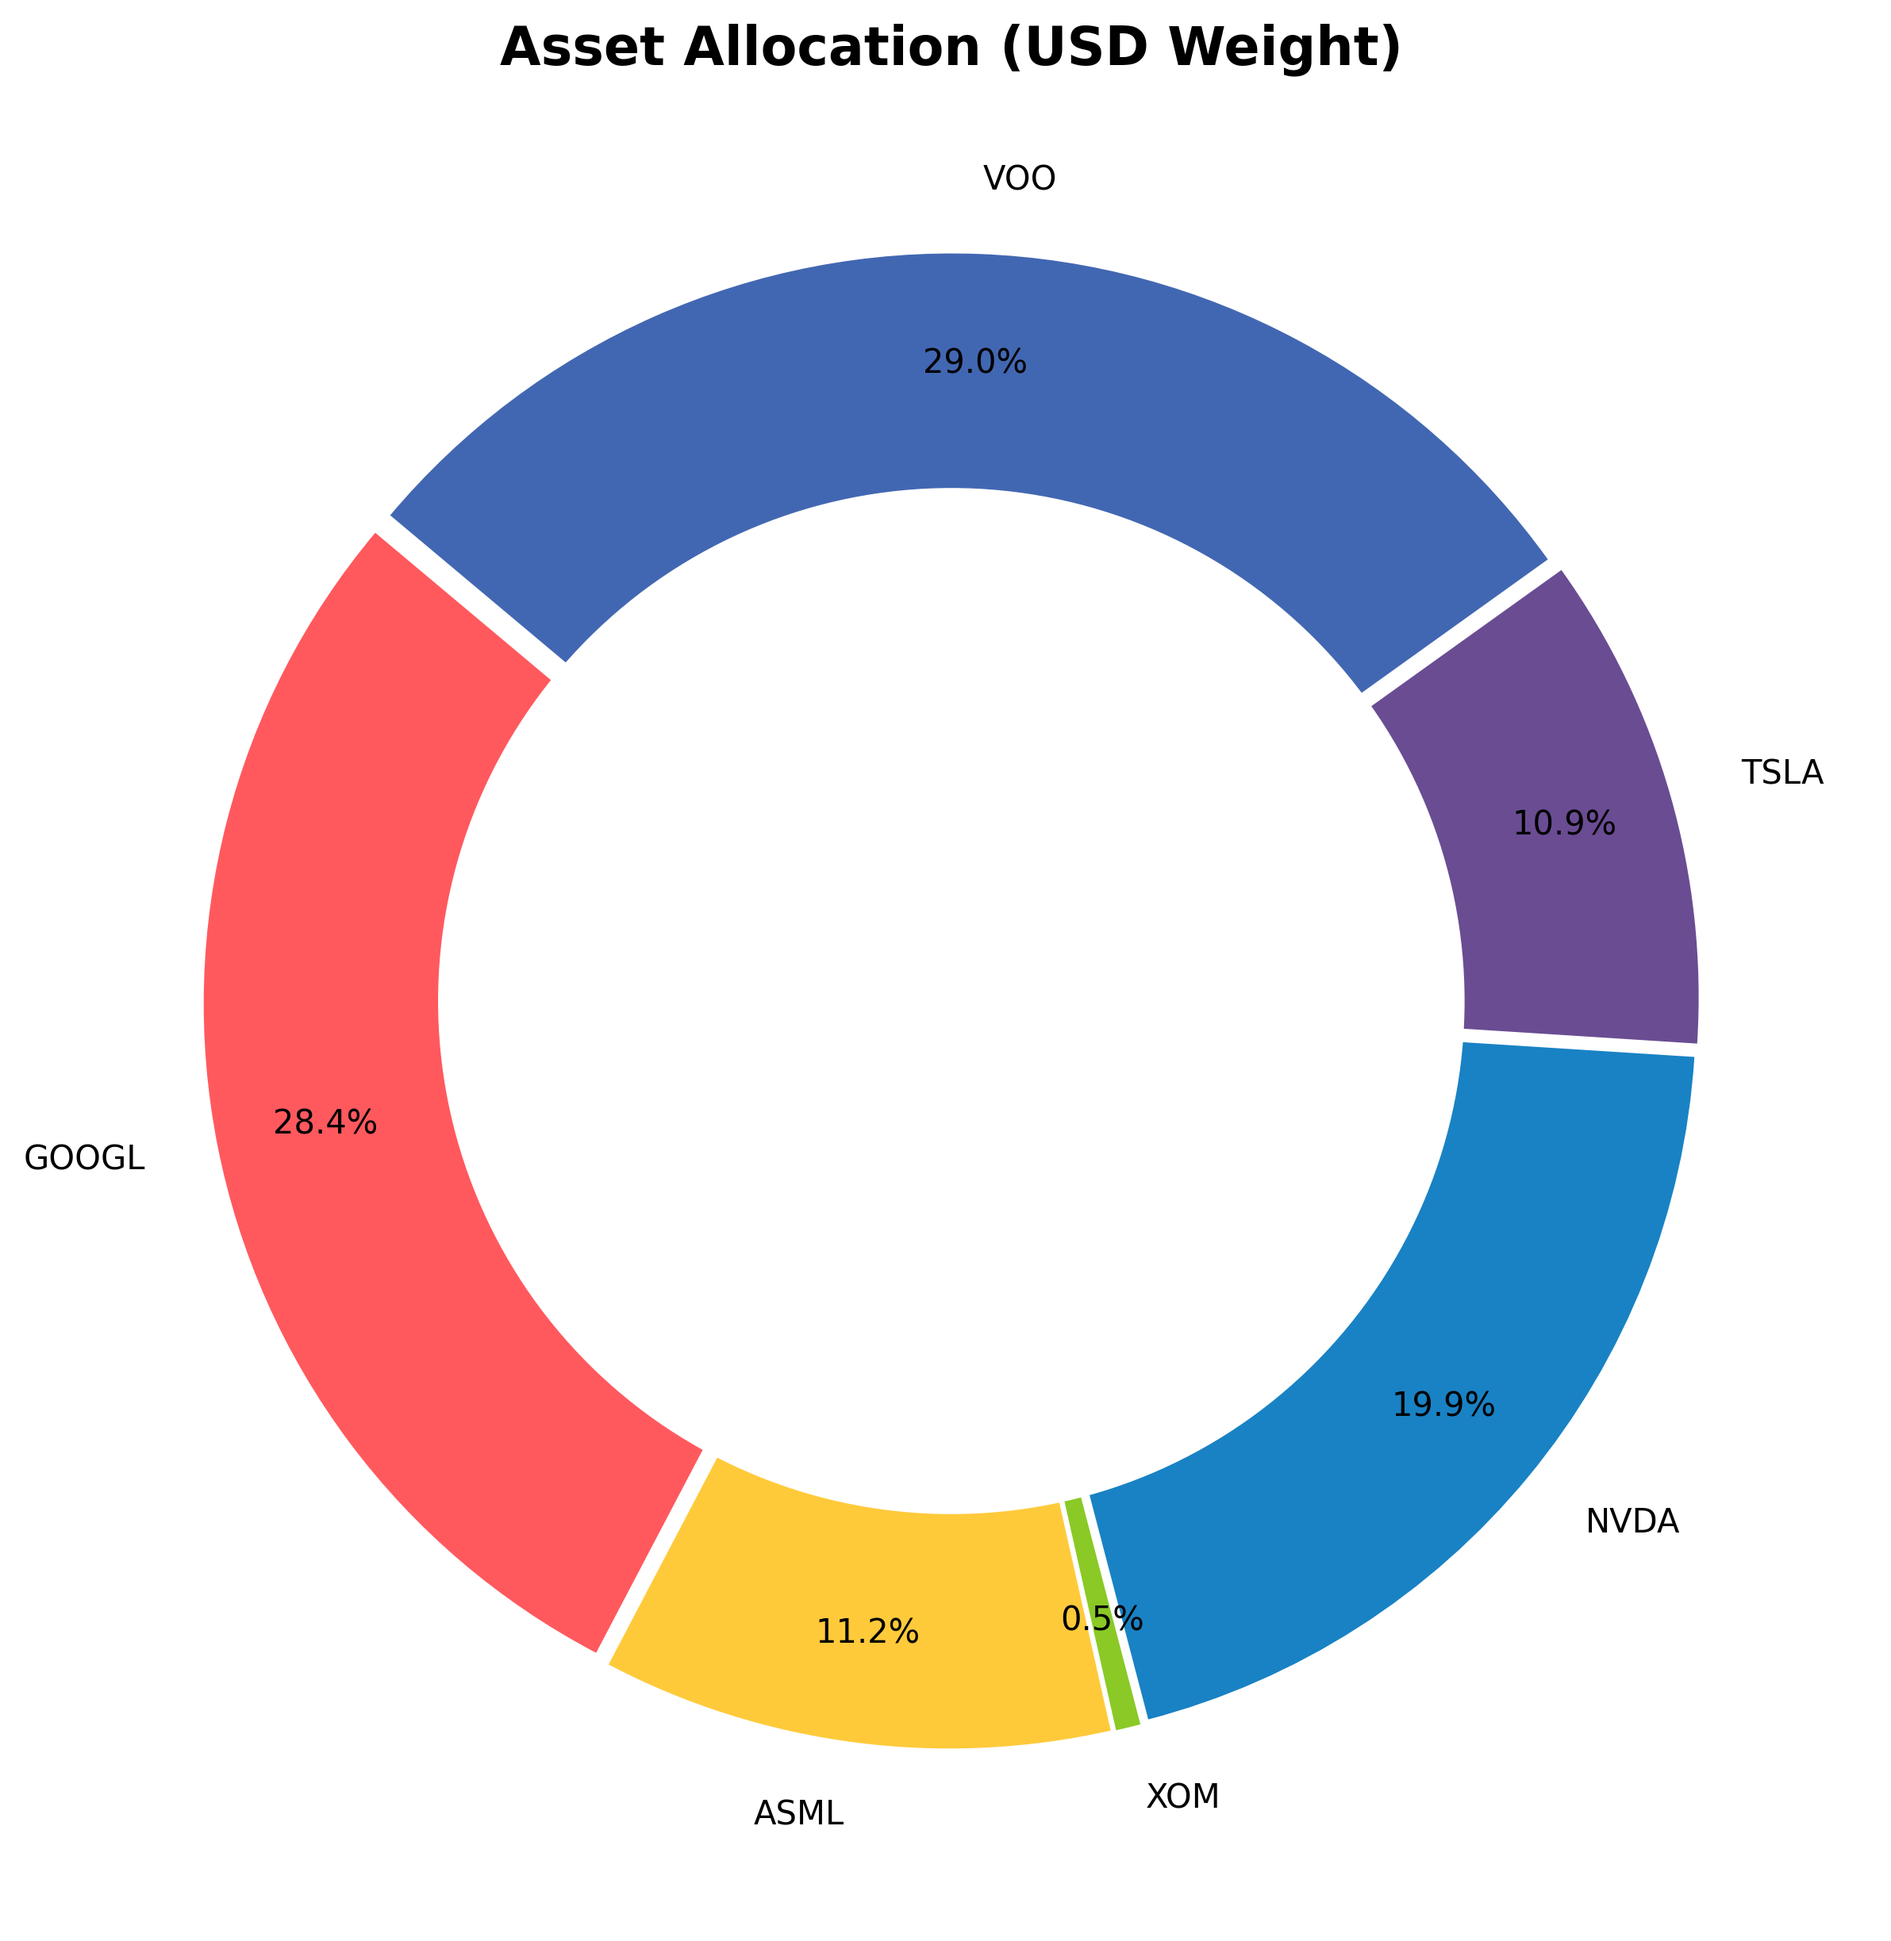
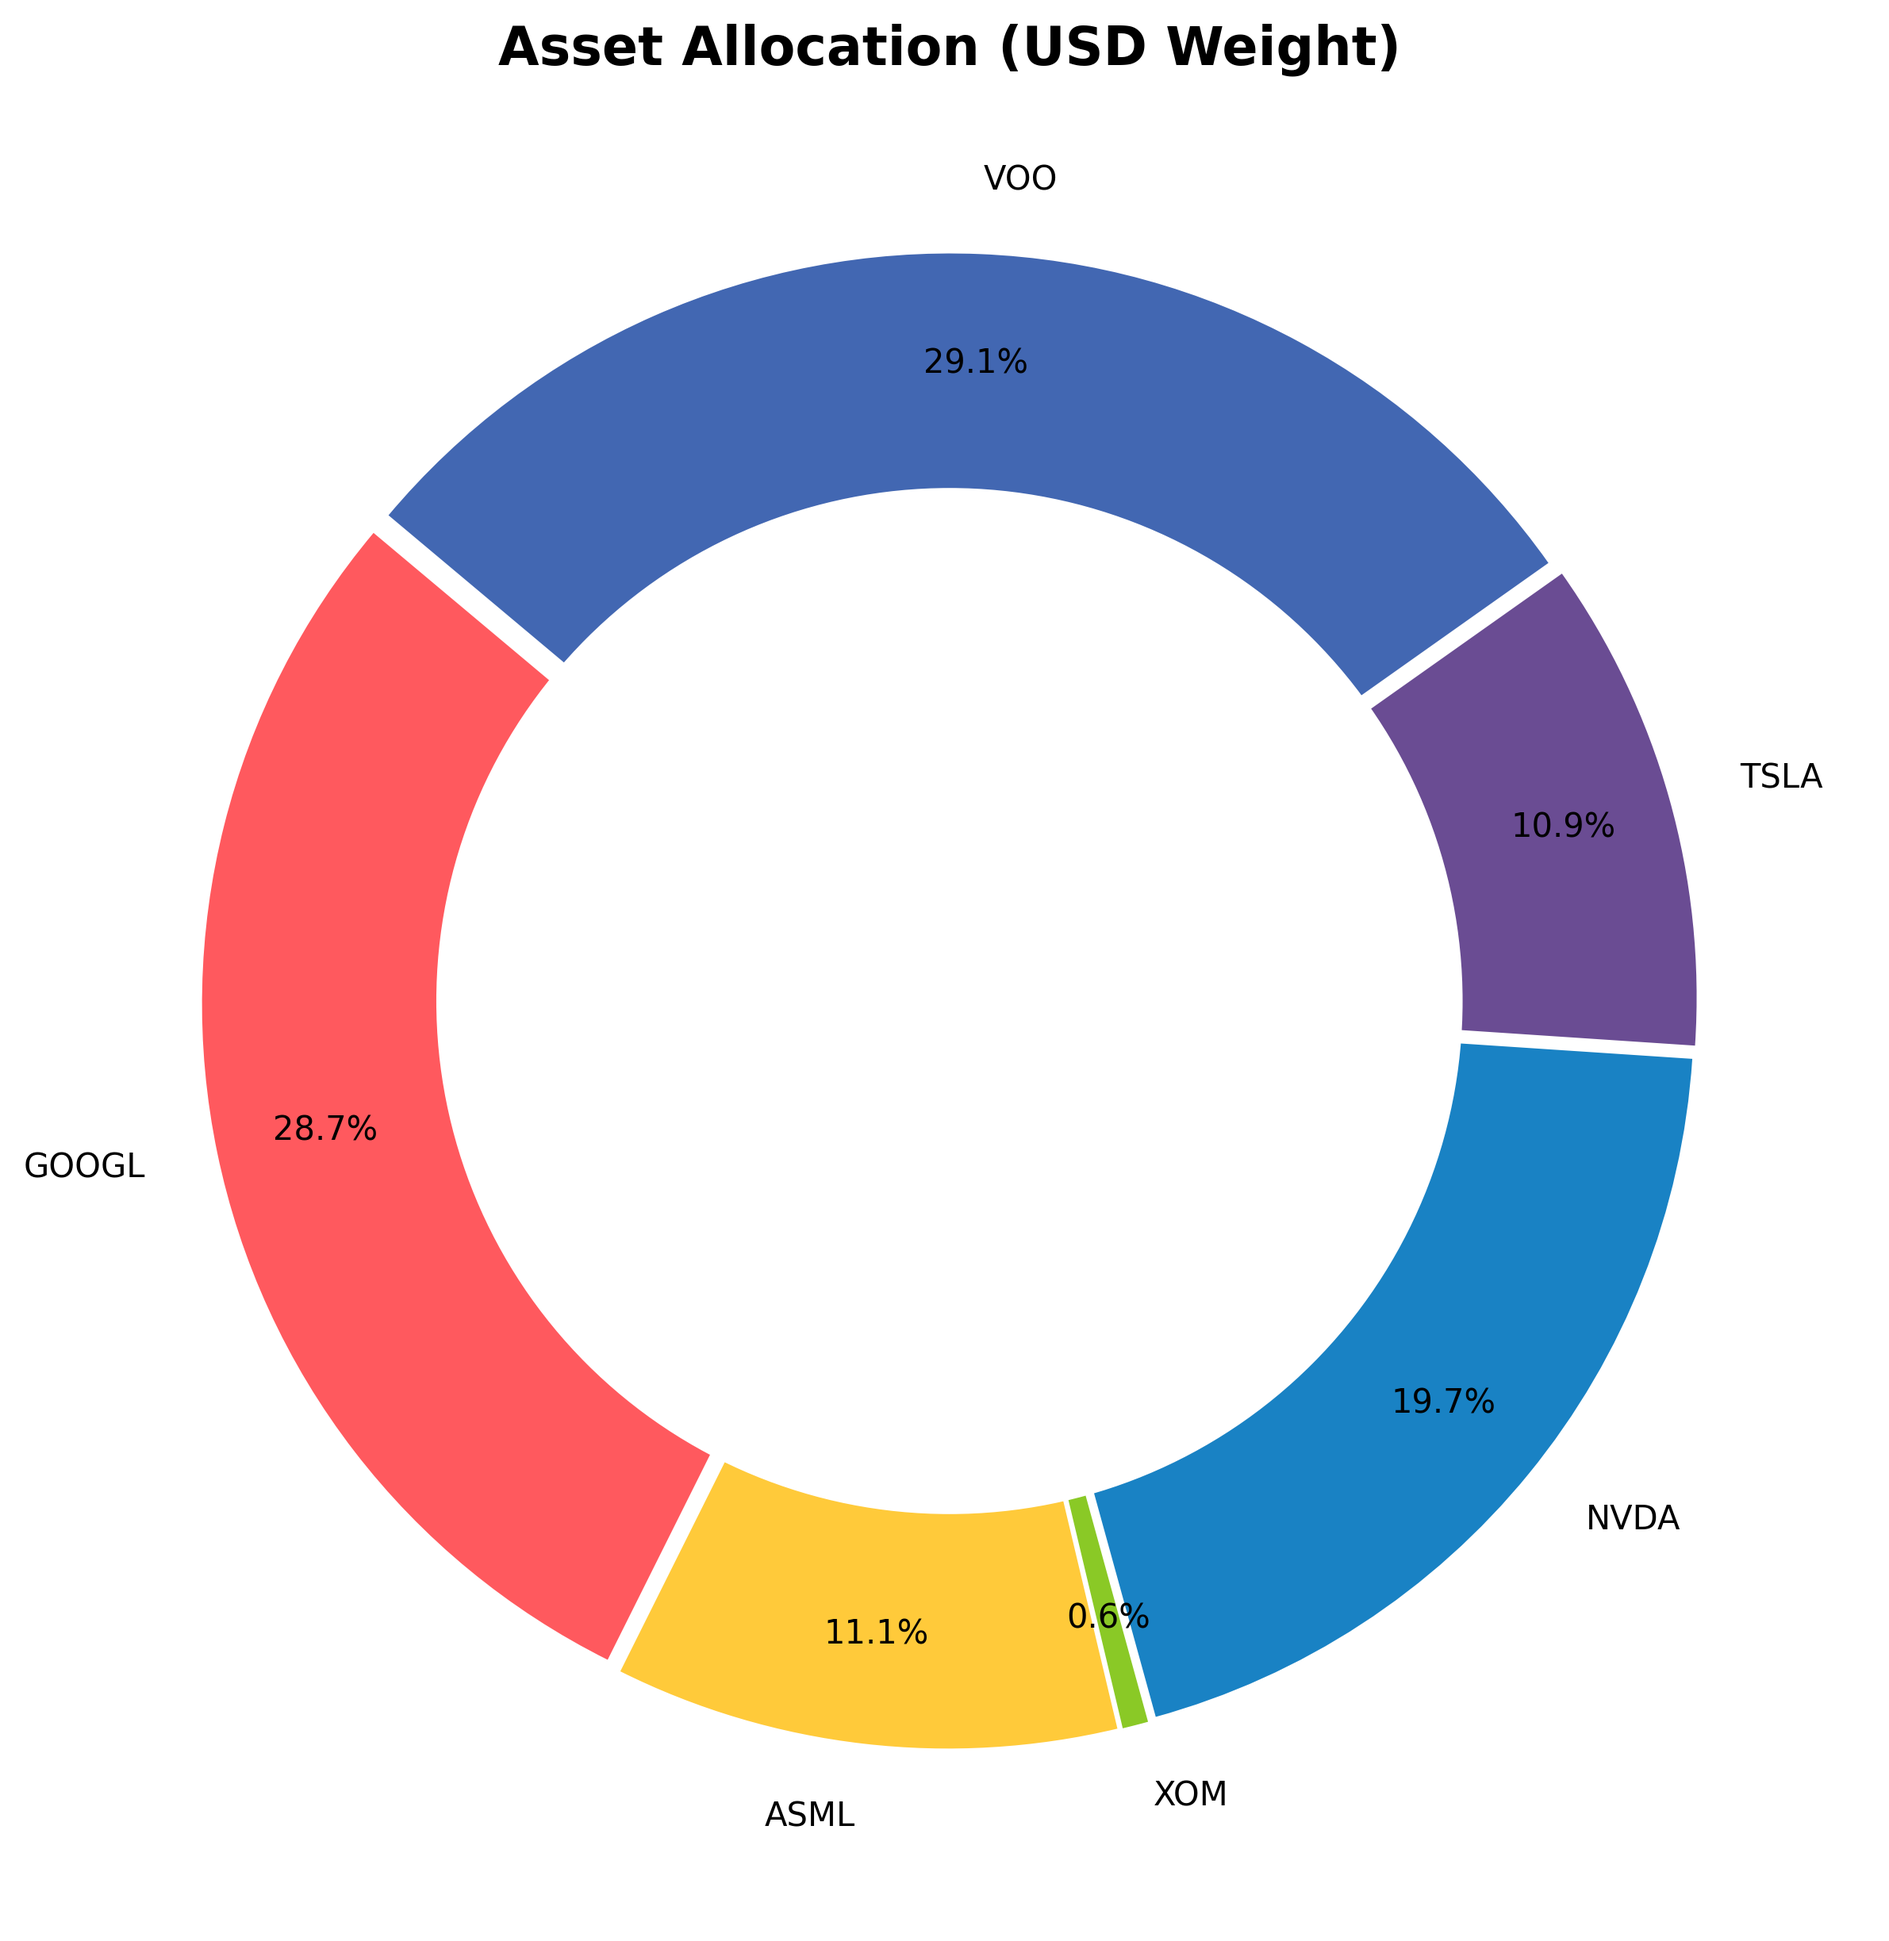
System Run: Analytics & Archive Update [skip ci]

diff --git a/README.md b/README.md
@@ -1,23 +1,23 @@
 # 📊 Portfolio Dashboard | מעקב תיק השקעות
-**Last Update:** 29/07/2026 01:09 | **USD/ILS:** ₪3.050
+**Last Update:** 29/07/2026 18:52 | **USD/ILS:** ₪3.076
 
 ## 💰 Portfolio Summary | סיכום התיק
 | Metric | Value | נתון |
 | :--- | :--- | :--- |
-| **Current Value** | `₪171,928` | **שווי נוכחי** |
-| **Total Invested** | `₪130,753` | **סך השקעה** |
-| **Total Profit/Loss** | `+31.49%` (₪41,175) | **רווח/הפסד כולל** |
-| **Daily Change** | `+0.13%` | **שינוי יומי** |
+| **Current Value** | `₪171,322` | **שווי נוכחי** |
+| **Total Invested** | `₪131,890` | **סך השקעה** |
+| **Total Profit/Loss** | `+29.90%` (₪39,432) | **רווח/הפסד כולל** |
+| **Daily Change** | `-1.08%` | **שינוי יומי** |
 
 ## 📜 Holdings | פירוט החזקות
 | Ticker | Shares | Avg. Cost | Current Price | P&L % | P&L ILS |
 | :--- | :--- | :--- | :--- | :--- | :--- |
-| GOOGL | 48 | $187.99 | $333.73 | 🟢 +77.53% | ₪21,336 |
-| ASML | 4 | $934.51 | $1,581.81 | 🟢 +69.27% | ₪7,897 |
-| XOM | 2 | $126.08 | $153.19 | 🟢 +21.50% | ₪165 |
-| NVDA | 57 | $148.62 | $196.95 | 🟢 +32.52% | ₪8,402 |
-| TSLA | 20 | $436.45 | $307.49 | 🔴 -29.55% | ₪-7,866 |
-| VOO | 24 | $527.38 | $680.96 | 🟢 +29.12% | ₪11,242 |
+| GOOGL | 48 | $187.99 | $333.45 | 🟢 +77.38% | ₪21,480 |
+| ASML | 4 | $934.51 | $1,543.47 | 🟢 +65.16% | ₪7,494 |
+| XOM | 2 | $126.08 | $157.90 | 🟢 +25.24% | ₪196 |
+| NVDA | 57 | $148.62 | $192.09 | 🟢 +29.25% | ₪7,623 |
+| TSLA | 20 | $436.45 | $302.33 | 🔴 -30.73% | ₪-8,252 |
+| VOO | 24 | $527.38 | $674.90 | 🟢 +27.97% | ₪10,892 |
 
 ## 📈 Charts | גרפים
 ![Performance](./data_hub/portfolio_performance.png)
